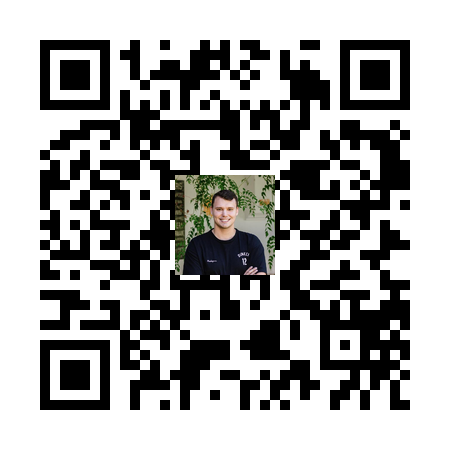
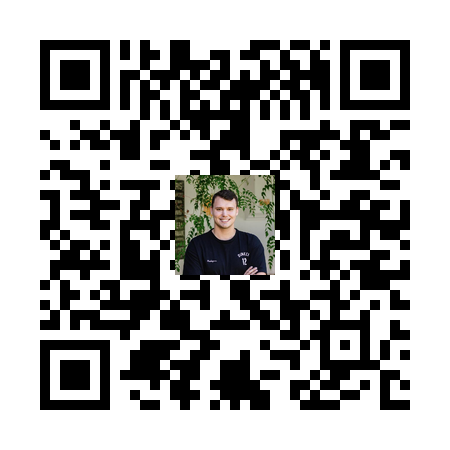
BackFinalizado

Changed region(s): [[0.0622, 0.0622, 0.9333, 0.9333]]

diff --git a/templates/ficha.html b/templates/ficha.html
@@ -25,7 +25,8 @@
     <p> Numero de telefono: {{usuario['tel_cont']}} </p>
     <p> Parentesco: {{usuario['parentesco']}} </p>
 
-    <a href="{{url_for('generar_qr', cedula=usuario['cedula'])}}">Generar qr </a>
+    <a href="{{url_for('generar_qr', cedula=usuario['cedula'])}}"><button>Generar qr</button></a> <br>
+    <a href="{{url_for('login')}}"> <button>Volver</button></a>
 </body>
 
 </html>

diff --git a/templates/login.html b/templates/login.html
@@ -14,6 +14,7 @@
         <label for="Password">Contraseña</label> <input type="password" name="password" id=""><br>
         <input type="submit" value="Ingresar">
     </form>
+    <a href="{{url_for('register')}}"><button>Registrarse</button></a>
 </body>
 
 </html>

diff --git a/templates/register.html b/templates/register.html
@@ -26,6 +26,7 @@
         <label>Parentesco</label> <input name="parentesco"> <br>
         <input type="submit" value="Enviar">
 
+
     </form>
 </body>
 

diff --git a/app.py b/app.py
@@ -70,8 +70,8 @@ def register():
         nom_cont = diccionario['contacto']
         tel_cont = diccionario['telefono']
         parentesco = diccionario['parentesco']
-
-        print(nombre, cedula, password, apellido, tipo_sangre, enf_base, alergia, seguro_medico, nom_cont, tel_cont, parentesco)
+        
+        #print(nombre, cedula, password, apellido, tipo_sangre, enf_base, alergia, seguro_medico, nom_cont, tel_cont, parentesco)
 
         # crear un objeto con los datos del form y guardar 
         user = Usuario(nombre, cedula, edad, password, apellido, tipo_sangre, enf_base, alergia, seguro_medico, nom_cont, tel_cont, parentesco)
@@ -80,7 +80,7 @@ def register():
         db.session.add(user)
         # Confirmar la operacion
         db.session.commit()
-
+        return redirect(url_for('login'))
     return render_template('register.html')
 
 
@@ -148,7 +148,7 @@ def qr_generator(cedula, url):
 @app.route('/generar_qr')
 def generar_qr(): 
     cedula = request.args['cedula']
-    ip = '192.168.100.52:7000'
+    ip = '192.168.240.6:7000'
     url = 'http://'+ip+'/ficha?cedula='+cedula
     qr_generator (cedula, url)
 
@@ -157,7 +157,7 @@ def generar_qr():
 
 @app.route("/")
 def index(): 
-    return render_template()
+    return 'Hola'
 
 if __name__ == "__main__":
     app.run(host="0.0.0.0", port=7000, debug=True)

diff --git a/qr.py b/qr.py
@@ -18,7 +18,7 @@ logo = logo.resize((basewidth, hsize), Image.ANTIALIAS)
 Qrcode = qrcode.QRCode(error_correction=qrcode.constants.ERROR_CORRECT_H)
 
 # Generamos la ruta a la que nuestro codigo QR va a redireccionar
-url = 'http://192.168.100.31:7000/login' 
+url = 'http://192.168.240.6:7000/login' 
 Qrcode.add_data(url)
 # Generamos el codigo QR
 qrcode.make()
